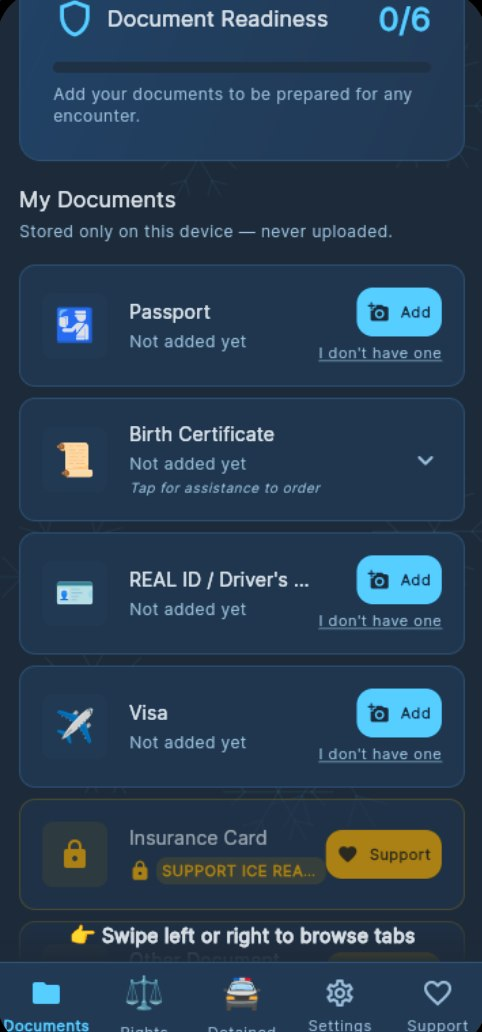
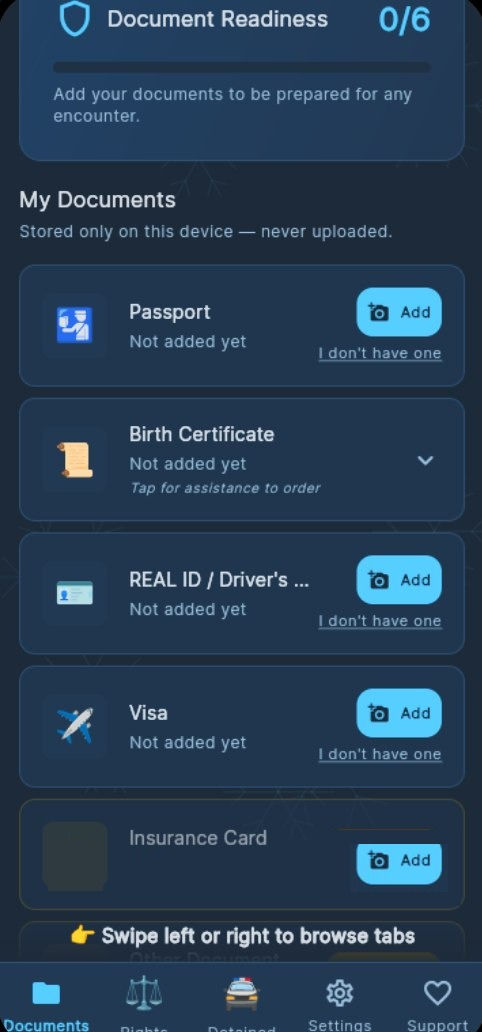
Add 4 sticker artworks, Documents preview tab, patched documents screenshot
- Sticker pack: replace all 4 'pending art' placeholders (Cuba gator,
  Spike vs. melting Blockhead, Mex Kid, Peru Kid) with real art
- Phone preview: add Documents tab; screenshot patched to remove old
  paywall UI (Insurance row now shows standard Add button, matching the
  shipped all-free v1.0.0 app). Settings/Support still pending retakes.
- Cache-bust appscreens probe v3 -> v4

Changed region(s): [[0.249, 0.8062, 0.9336, 0.8682], [0.1245, 0.8062, 0.1867, 0.8682]]

diff --git a/index.html b/index.html
@@ -262,8 +262,8 @@ footer{border-top-color:var(--border);}
 <div class="facts-bar"><div class="ticker-track"><div class="ticker-group"><span class="fact-item">46 people died in ICE custody</span><span class="fact-item">Two-thirds held without charges</span><span class="fact-item">Girls 13-17 denied medical care</span><span class="fact-item">One death every 6 days</span><span class="fact-item">4,700 student visas terminated overnight</span></div><div class="ticker-group" aria-hidden="true"><span class="fact-item">46 people died in ICE custody</span><span class="fact-item">Two-thirds held without charges</span><span class="fact-item">Girls 13-17 denied medical care</span><span class="fact-item">One death every 6 days</span><span class="fact-item">4,700 student visas terminated overnight</span></div></div></div>
 <a href="#merch" class="merch-ribbon"><span class="merch-ribbon-tag">New</span><span>ICE Ready merch — tees from $22. Every purchase keeps the app free.</span><span class="merch-ribbon-cta">See the lineup →</span></a>
 <section class="section" id="features"><div class="section-label">Core Features</div><div class="section-title">Built For The Worst Case</div><div class="features-grid"><div class="feature"><div class="feature-num">01</div><div class="feature-icon">🔒</div><h3>Lock Screen Access</h3><p>Documents accessible without unlocking your phone. When hands are occupied or shaking — seconds matter.</p><span class="feature-tag">Coming in a free update</span></div><div class="feature"><div class="feature-num">02</div><div class="feature-icon">🎙</div><h3>Voice Trigger</h3><p>Hands-free activation when motor skills fail under stress. Trauma-informed design that competitors haven't considered.</p><span class="feature-tag">Coming in a free update</span></div><div class="feature"><div class="feature-num">03</div><div class="feature-icon">📋</div><h3>Rights Cards</h3><p>Know your rights in your state, in your language. Refuse search scripts, lawyer contact scripts — instantly available.</p><span class="feature-tag">All 50 states</span></div><div class="feature"><div class="feature-num">04</div><div class="feature-icon">🎥</div><h3>Right to Record</h3><p>Know your right to record law enforcement in your state — with scripts for what to say while filming.</p><span class="feature-tag">Anyone near law enforcement</span></div><div class="feature"><div class="feature-num">05</div><div class="feature-icon">🛡</div><h3>Decoy Mode</h3><p>Hides the app behind an innocent-looking screen. Documents stay protected even if your phone is taken.</p><span class="feature-tag">Free at launch — early adopters keep it</span></div><div class="feature"><div class="feature-num">06</div><div class="feature-icon">💳</div><h3>Document Vault</h3><p>Encrypted storage for ID, passport, visa, insurance cards. Accessible offline. Never backed up to third-party servers.</p><span class="feature-tag">Encrypted on your device</span></div></div></section>
-<section class="download-section" id="download"><div class="download-inner"><div class="download-copy"><div class="section-label">Download</div><h2>FREE. ALWAYS.</h2><p>ICE Ready is free for everyone. Every safety feature is free. No ads. No account. No paywall between a family and their rights.</p><div class="store-buttons"><!-- APPLE LAUNCH DAY: when the App Store approves, make the same swap on the App Store link below (remove coming-soon/aria-disabled/tabindex, set the App Store URL) --><a href="https://play.google.com/store/apps/details?id=com.icyberaillc.iceready" class="store-btn" rel="noopener"><img src="badges/google-play-badge.png" alt="Get it on Google Play" style="height:64px;width:auto;display:block;margin:-6px 0;"></a><a href="#" class="store-btn coming-soon" aria-disabled="true" tabindex="-1"><img src="badges/app-store-badge.svg" alt="Download on the App Store — coming soon" style="height:44px;width:auto;display:block;"></a><a href="https://app.primio.dev/ice-ready-456a" class="store-btn" rel="noopener"><div class="store-btn-icon">🌐</div><div class="store-btn-text"><small>Web demo — preview only</small><strong>Try in Browser</strong></div></a></div></div><div class="phone-wrap"><div class="phone-frame"><div class="phone-screen"><div class="phone-view"><div class="phone-cover"><div class="phone-app-header"><div class="phone-logo-dot">🧊</div><div class="phone-app-name">ICE READY</div></div><div class="phone-card"><div class="phone-card-label">Passport</div><div class="phone-card-title">US Passport</div></div><div class="phone-card"><div class="phone-card-label">Your Rights · California</div><div class="phone-card-title">You have the right to remain silent</div></div><div class="phone-card"><div class="phone-card-label">Emergency Contact</div><div class="phone-card-title">Attorney on file</div></div><div class="phone-record-btn">TAP TO RECORD</div></div><img class="phone-shot" alt="ICE Ready app screenshot"></div><div class="phone-tabbar"><!-- INTERIM: Documents/Settings/Support tabs removed until screenshots are retaken from the shipped v1.0.0 build (old shots show removed paywall/tip prices) --><button class="ptab" data-tab="rights" type="button"><span>⚖</span>Rights</button><button class="ptab" data-tab="detained" type="button"><span>🚓</span>Detained</button></div></div></div><p class="phone-hint">▲ Tap a tab to preview the real app</p></div></div></section>
-<section class="merch-section" id="merch"><div class="merch-inner"><div class="section-label">Store · Drop 001</div><div class="section-title">Wear The Movement</div><p class="merch-sub"><strong>Every purchase keeps the app free.</strong> No ads, no data selling, no paywall between a family and their rights — merch is how this stays true. Join the waitlist and you'll get first access when the drop goes live.</p><div class="merch-grid"><div class="merch-card"><div class="merch-img"><img src="balon-full-flags-640.webp" alt="El Balón de las Américas — Full Flags ball: 19 flags edge to edge, gold trophy panel" loading="lazy" decoding="async" style="width:100%;height:100%;object-fit:cover;display:block;"><span class="merch-flag">19 Naciones</span></div><div class="merch-info"><div class="merch-title-row"><h4>El Balón de las Américas — Full Flags</h4><span class="merch-price">Coming Soon</span></div><p>Every hexagon a nation. The flags of 19 Spanish-speaking countries of the Américas, printed edge to edge, with a gold trophy panel for the host. Size 5, match-quality, made to play.</p><a href="mailto:support@iceready.app?subject=Waitlist: Full Flags Ball" class="merch-notify">Join the waitlist</a></div></div><div class="merch-card"><div class="merch-img"><img src="balon-little-flags-640.webp" alt="El Balón de las Américas — Little Flags ball: small flags on white, nickel trophy" loading="lazy" decoding="async" style="width:100%;height:100%;object-fit:cover;display:block;"><span class="merch-flag">Las Américas Unidas</span></div><div class="merch-info"><div class="merch-title-row"><h4>El Balón de las Américas — Little Flags</h4><span class="merch-price">Coming Soon</span></div><p>The collector&rsquo;s cut. 19 small flags on clean white panels — Puerto Rico in its original celeste — with a brushed-nickel trophy carrying the Américas on its face. <em>Las Américas Unidas.</em></p><a href="mailto:support@iceready.app?subject=Waitlist: Little Flags Ball" class="merch-notify">Join the waitlist</a></div></div><div class="merch-card"><div class="merch-img"><svg viewBox="0 0 220 200" id="logo-tee-svg" role="img" aria-label="ICE Ready logo tee mockup"><defs><linearGradient id="t1b" x1="0" y1="0" x2="0" y2="1"><stop id="t1b-top" offset="0" stop-color="#ffffff"/><stop id="t1b-bot" offset="1" stop-color="#dff0fa"/></linearGradient></defs><ellipse cx="110" cy="188" rx="62" ry="7" fill="#000" opacity="0.45"/><path id="t1b-body" d="M78,26 L96,18 Q110,32 124,18 L142,26 L174,46 L160,76 L144,65 L144,174 Q110,181 76,174 L76,65 L60,76 L46,46 Z" fill="url(#t1b)" stroke="#cdd6df" stroke-width="1.5"/><path id="t1b-collar" d="M96,18 Q110,34 124,18 Q110,44 96,18" fill="#d3dbe3"/><path d="M144,65 L144,174 Q127,178 110,178 L110,72 Z" fill="#000" opacity="0.07"/><polygon points="62,42 88,30 72,168 52,158" fill="#000" opacity="0.03"/><image id="logo-tee-img" href="shield-logo-128.webp" x="119" y="58" width="21" height="21"/></svg><span class="merch-flag">Front + Back</span></div><div class="merch-info"><div class="tee-swatches"><button class="tee-swatch swatch-active" data-top="#ffffff" data-bot="#dff0fa" data-collar="#d3dbe3" data-stroke="#cdd6df" data-logo="iceblue_logo-128.webp" style="background:#fff;" title="White"></button><button class="tee-swatch" data-top="#d0dce8" data-bot="#b8c8d8" data-collar="#b0c0d0" data-stroke="#9aaabb" data-logo="iceblue_logo-128.webp" style="background:#c0ceda;" title="Light Grey"></button><button class="tee-swatch" data-top="#4a5568" data-bot="#2d3748" data-collar="#3d4a5c" data-stroke="#5a6a7a" data-logo="ice_ready_fixed-128.webp" style="background:#3d4a5c;" title="Dark Grey"></button><button class="tee-swatch" data-top="#1a1a22" data-bot="#0a0a10" data-collar="#252530" data-stroke="#3a3a48" data-logo="ice_ready_fixed-128.webp" style="background:#111;" title="Black"></button></div><div class="merch-title-row"><h4>ICE Ready Logo Tee</h4><span class="merch-price">$22</span></div><p>White heavyweight cotton. Logo on the left chest. ICE READY APP in icicle blue across the back with a scannable QR code beneath — close enough to read it, close enough to scan it.</p><a href="mailto:support@iceready.app?subject=Waitlist: Logo Tee" class="merch-notify">Join the waitlist</a></div></div><div class="merch-card"><div class="merch-img" style="aspect-ratio:16/9;"><img src="barney_batman_tee-700.webp" alt="I'm Batman tee" loading="lazy" decoding="async" style="width:100%;height:100%;object-fit:cover;display:block;"><img src="ir-qr-code-480.png" alt="Scan QR" loading="lazy" decoding="async" style="position:absolute;bottom:4px;left:4px;width:18px;height:18px;background:rgba(100,100,100,0.45);border-radius:2px;padding:1px;z-index:1;"><span class="merch-flag">QR bottom-left</span></div><div class="merch-info"><div class="merch-title-row"><h4>&ldquo;I'm Batman&rdquo; Tee</h4><span class="merch-price">$24</span></div><p>Graphic on the back with ICE Ready logo on the front left chest, OR graphic on the front with ICE READY APP in icicle blue on the back. Scannable QR in the lower-left corner of the print.</p><a href="mailto:support@iceready.app?subject=Waitlist: Batman Tee" class="merch-notify">Join the waitlist</a></div></div><div class="merch-card"><div class="merch-img"><svg viewBox="0 0 220 200" role="img" aria-label="Taco Break mug mockup"><defs><linearGradient id="mgb" x1="0" y1="0" x2="1" y2="0"><stop offset="0" stop-color="#fafcfe"/><stop offset="0.7" stop-color="#e3eaef"/><stop offset="1" stop-color="#c3cdd6"/></linearGradient><linearGradient id="mshade" x1="0" y1="0" x2="1" y2="0"><stop offset="0" stop-color="#fff" stop-opacity="0.2"/><stop offset="0.35" stop-color="#fff" stop-opacity="0"/><stop offset="0.85" stop-color="#000" stop-opacity="0.16"/><stop offset="1" stop-color="#000" stop-opacity="0.3"/></linearGradient><clipPath id="mclip"><path d="M62,60 Q62,52 72,52 L138,52 Q148,52 148,60 L148,160 Q148,172 134,172 L76,172 Q62,172 62,160 Z"/></clipPath></defs><ellipse cx="108" cy="182" rx="58" ry="7" fill="#000" opacity="0.45"/><path d="M148,80 Q188,84 184,112 Q180,140 148,142" fill="none" stroke="#b9c4cd" stroke-width="13"/><path d="M148,80 Q188,84 184,112 Q180,140 148,142" fill="none" stroke="#eef2f5" stroke-width="9"/><path d="M62,60 Q62,52 72,52 L138,52 Q148,52 148,60 L148,160 Q148,172 134,172 L76,172 Q62,172 62,160 Z" fill="url(#mgb)"/><ellipse cx="105" cy="53" rx="43" ry="7" fill="#dfe6ec"/><ellipse cx="105" cy="53" rx="36" ry="5" fill="#aeb9c2"/><image href="taco_chihuahua.jpg" x="62" y="58" width="86" height="114" preserveAspectRatio="xMidYMid slice" clip-path="url(#mclip)"/><path d="M62,60 Q62,52 72,52 L138,52 Q148,52 148,60 L148,160 Q148,172 134,172 L76,172 Q62,172 62,160 Z" fill="url(#mshade)"/></svg></div><div class="merch-info"><div class="merch-title-row"><h4>Taco Break Mug</h4><span class="merch-price">$14</span></div><p>The schoolyard chihuahua &ldquo;Roo Roo,&rdquo; mid-taco, leaning on the wall where &ldquo;give me your tired, your poor&rdquo; is sprayed in graffiti script. ICE READY in icicle blue on the flip side.</p><a href="mailto:support@iceready.app?subject=Waitlist: Taco Break Mug" class="merch-notify">Join the waitlist</a></div></div><div class="merch-card"><div class="merch-img"><div class="sticker-pager" id="sticker-pager"><div class="sticker-page sticker-page-active" data-page="0"><div class="sticker-item"><img src="shield-sticker-480.webp" alt="ICE Ready shield sticker" loading="lazy" decoding="async"></div><div class="sticker-item"><img src="barney_batman_v2-700.webp" alt="I'm Batman sticker" loading="lazy" decoding="async"></div><div class="sticker-item"><div class="sticker-item-placeholder">Alligator<br>(Cuba)<br>— pending art —</div></div><div class="sticker-item"><div class="sticker-item-placeholder">Spike vs.<br>melting Blockhead<br>— pending art —</div></div></div><div class="sticker-page" data-page="1"><div class="sticker-item"><img src="ice-cube-black-180.webp" alt="Melting ice cube sticker — Statue of Liberty poem" loading="lazy" decoding="async"></div><div class="sticker-item"><img src="ice-cube-clear-160.webp" alt="Melting ice cube sticker — Know Your Rights" loading="lazy" decoding="async"></div><div class="sticker-item"><div class="sticker-item-placeholder">Mex Kid<br>— pending art —</div></div><div class="sticker-item"><div class="sticker-item-placeholder">Peru Kid<br>— pending art —</div></div></div><div class="sticker-pager-nav"><span class="sticker-pager-dots" id="sticker-pager-dots">1/2</span><button type="button" class="sticker-pager-btn" id="sticker-pager-next" aria-label="Next sticker set">&gt;</button></div></div></div><div class="merch-info"><div class="merch-title-row"><h4>Sticker Pack</h4><span class="merch-price">$5</span></div><p>4-pack die-cut vinyl, two sets to choose from: ICE Ready shield, &ldquo;I&rsquo;m Batman,&rdquo; the Cuba gator, and Spike vs. the melting Blockhead &mdash; or flip to two melting ice cubes (Statue of Liberty poem &amp; Know Your Rights) plus Mex Kid and Peru Kid. Weatherproof.</p><a href="mailto:support@iceready.app?subject=Waitlist: Sticker Pack" class="merch-notify">Join the waitlist</a></div></div><div class="merch-card"><div class="merch-img"><img id="cap-photo" src="ice_ready_cap_lightblue.webp" alt="ICE Ready cap — front-facing trucker cap with shield logo on the front panel" loading="lazy" decoding="async" style="width:100%;height:100%;object-fit:cover;display:block;"></div><div class="merch-info"><div class="cap-swatches"><button class="cap-swatch swatch-active" data-photo="ice_ready_cap_lightblue.webp" style="background:#7ec8f0;" title="Light Blue / Nickel"></button><button class="cap-swatch" data-photo="ice_ready_cap_navy.webp" style="background:#1c2f4a;" title="Navy / Gunmetal"></button></div><div class="merch-title-row"><h4>ICE Ready Cap</h4><span class="merch-price">$22</span></div><p>White structured 6-panel. ICE READY in icicle blue across the front, fine print beneath: Know Your Rights &middot; iceready.app. Adjustable strap. Available in light blue (nickel shield) or navy (gunmetal shield).</p><a href="mailto:support@iceready.app?subject=Waitlist: Cap" class="merch-notify">Join the waitlist</a></div></div><div class="merch-card"><div class="merch-img"><svg viewBox="0 0 220 200" role="img" aria-label="Canvas tote mockup"><defs><linearGradient id="totb" x1="0" y1="0" x2="1" y2="1"><stop offset="0" stop-color="#e2d8bd"/><stop offset="1" stop-color="#c2b48e"/></linearGradient><linearGradient id="tottx" x1="0" y1="0" x2="0" y2="1"><stop offset="0" stop-color="#dff6ff"/><stop offset="1" stop-color="#00c8ff"/></linearGradient></defs><ellipse cx="110" cy="188" rx="58" ry="7" fill="#000" opacity="0.45"/><path d="M84,66 Q84,28 110,28 Q136,28 136,66" fill="none" stroke="#9c8c64" stroke-width="7"/><path d="M84,66 Q84,30 110,30 Q136,30 136,66" fill="none" stroke="#b8a87e" stroke-width="4"/><path d="M60,64 L160,64 L154,180 Q110,187 66,180 Z" fill="url(#totb)" stroke="#a4946a" stroke-width="1"/><path d="M75,70 L72,176 M145,70 L148,176" stroke="#000" opacity="0.08" stroke-width="2" fill="none"/><text x="110" y="104" text-anchor="middle" font-family="'Bebas Neue',sans-serif" font-size="21" letter-spacing="2" fill="#16202e">KNOW</text><text x="110" y="126" text-anchor="middle" font-family="'Bebas Neue',sans-serif" font-size="21" letter-spacing="2" fill="#16202e">YOUR</text><text x="110" y="148" text-anchor="middle" font-family="'Bebas Neue',sans-serif" font-size="21" letter-spacing="2" fill="#16202e">RIGHTS</text><text x="110" y="164" text-anchor="middle" font-family="'Bebas Neue',sans-serif" font-size="8" letter-spacing="1.5" fill="url(#tottx)">ICE READY APP</text></svg></div><div class="merch-info"><div class="merch-title-row"><h4>Canvas Tote</h4><span class="merch-price">$15</span></div><p>Heavy canvas tote. <em>Know Your Rights</em> front, <em>14th Amendment</em> on the back — birthright citizenship, equal protection, due process. Carries groceries and a cause.</p><a href="mailto:support@iceready.app?subject=Waitlist: Tote" class="merch-notify">Join the waitlist</a></div></div><div class="merch-card"><div class="merch-img"><svg viewBox="0 0 220 200" role="img" aria-label="Blockhead Ice Cube tee back mockup"><defs><linearGradient id="blockshirt" x1="0" y1="0" x2="0" y2="1"><stop offset="0" stop-color="#f8f4ee"/><stop offset="1" stop-color="#e8e0d4"/></linearGradient></defs><ellipse cx="110" cy="188" rx="62" ry="7" fill="#000" opacity="0.45"/><path d="M78,26 L96,18 Q110,32 124,18 L142,26 L174,46 L160,76 L144,65 L144,174 Q110,181 76,174 L76,65 L60,76 L46,46 Z" fill="url(#blockshirt)" stroke="#ccc2b4" stroke-width="1.5"/><path d="M96,18 Q110,34 124,18 Q110,44 96,18" fill="#d8d0c4"/><path d="M144,65 L144,174 Q127,178 110,178 L110,72 Z" fill="#000" opacity="0.05"/><polygon points="62,42 88,30 72,168 52,158" fill="#000" opacity="0.03"/><image href="blockhead-ice.png" x="80" y="50" width="60" height="65" preserveAspectRatio="xMidYMid meet"/><text x="110" y="125" text-anchor="middle" font-family="'Bebas Neue',sans-serif" font-size="4.5" fill="#0057a8" letter-spacing="0.6">Know your rights</text><text x="110" y="135" text-anchor="middle" font-family="'DM Mono',monospace" font-size="3.2" fill="#0057a8">Be ICE Ready</text><text x="110" y="143" text-anchor="middle" font-family="'DM Mono',monospace" font-size="3" fill="#0057a8">@icereadyapp</text></svg><span class="merch-flag">Chest Logo</span></div><div class="merch-info"><div class="merch-title-row"><h4>ICE Blockhead Tee</h4><span class="merch-price">$24</span></div><p>Front: Clean shield logo on left chest. Back: Life-size LEGO blockhead with ice cube head, <em>Know your rights. Be ICE Ready @icereadyapp</em> below. Visual statement piece for the merch drop.</p><a href="mailto:support@iceready.app?subject=Waitlist: Blockhead Tee" class="merch-notify">Join the waitlist</a></div></div></div><div class="merch-foot"><span>Full store launching at shop.iceready.app</span><span>Printed on demand in the USA · Profits fund the free app</span></div></div></section>
+<section class="download-section" id="download"><div class="download-inner"><div class="download-copy"><div class="section-label">Download</div><h2>FREE. ALWAYS.</h2><p>ICE Ready is free for everyone. Every safety feature is free. No ads. No account. No paywall between a family and their rights.</p><div class="store-buttons"><!-- APPLE LAUNCH DAY: when the App Store approves, make the same swap on the App Store link below (remove coming-soon/aria-disabled/tabindex, set the App Store URL) --><a href="https://play.google.com/store/apps/details?id=com.icyberaillc.iceready" class="store-btn" rel="noopener"><img src="badges/google-play-badge.png" alt="Get it on Google Play" style="height:64px;width:auto;display:block;margin:-6px 0;"></a><a href="#" class="store-btn coming-soon" aria-disabled="true" tabindex="-1"><img src="badges/app-store-badge.svg" alt="Download on the App Store — coming soon" style="height:44px;width:auto;display:block;"></a><a href="https://app.primio.dev/ice-ready-456a" class="store-btn" rel="noopener"><div class="store-btn-icon">🌐</div><div class="store-btn-text"><small>Web demo — preview only</small><strong>Try in Browser</strong></div></a></div></div><div class="phone-wrap"><div class="phone-frame"><div class="phone-screen"><div class="phone-view"><div class="phone-cover"><div class="phone-app-header"><div class="phone-logo-dot">🧊</div><div class="phone-app-name">ICE READY</div></div><div class="phone-card"><div class="phone-card-label">Passport</div><div class="phone-card-title">US Passport</div></div><div class="phone-card"><div class="phone-card-label">Your Rights · California</div><div class="phone-card-title">You have the right to remain silent</div></div><div class="phone-card"><div class="phone-card-label">Emergency Contact</div><div class="phone-card-title">Attorney on file</div></div><div class="phone-record-btn">TAP TO RECORD</div></div><img class="phone-shot" alt="ICE Ready app screenshot"></div><div class="phone-tabbar"><!-- INTERIM: Settings/Support tabs removed until screenshots are retaken from the shipped v1.0.0 build (old shots show removed paywall/tip prices) --><button class="ptab" data-tab="documents" type="button"><span>📁</span>Documents</button><button class="ptab" data-tab="rights" type="button"><span>⚖</span>Rights</button><button class="ptab" data-tab="detained" type="button"><span>🚓</span>Detained</button></div></div></div><p class="phone-hint">▲ Tap a tab to preview the real app</p></div></div></section>
+<section class="merch-section" id="merch"><div class="merch-inner"><div class="section-label">Store · Drop 001</div><div class="section-title">Wear The Movement</div><p class="merch-sub"><strong>Every purchase keeps the app free.</strong> No ads, no data selling, no paywall between a family and their rights — merch is how this stays true. Join the waitlist and you'll get first access when the drop goes live.</p><div class="merch-grid"><div class="merch-card"><div class="merch-img"><img src="balon-full-flags-640.webp" alt="El Balón de las Américas — Full Flags ball: 19 flags edge to edge, gold trophy panel" loading="lazy" decoding="async" style="width:100%;height:100%;object-fit:cover;display:block;"><span class="merch-flag">19 Naciones</span></div><div class="merch-info"><div class="merch-title-row"><h4>El Balón de las Américas — Full Flags</h4><span class="merch-price">Coming Soon</span></div><p>Every hexagon a nation. The flags of 19 Spanish-speaking countries of the Américas, printed edge to edge, with a gold trophy panel for the host. Size 5, match-quality, made to play.</p><a href="mailto:support@iceready.app?subject=Waitlist: Full Flags Ball" class="merch-notify">Join the waitlist</a></div></div><div class="merch-card"><div class="merch-img"><img src="balon-little-flags-640.webp" alt="El Balón de las Américas — Little Flags ball: small flags on white, nickel trophy" loading="lazy" decoding="async" style="width:100%;height:100%;object-fit:cover;display:block;"><span class="merch-flag">Las Américas Unidas</span></div><div class="merch-info"><div class="merch-title-row"><h4>El Balón de las Américas — Little Flags</h4><span class="merch-price">Coming Soon</span></div><p>The collector&rsquo;s cut. 19 small flags on clean white panels — Puerto Rico in its original celeste — with a brushed-nickel trophy carrying the Américas on its face. <em>Las Américas Unidas.</em></p><a href="mailto:support@iceready.app?subject=Waitlist: Little Flags Ball" class="merch-notify">Join the waitlist</a></div></div><div class="merch-card"><div class="merch-img"><svg viewBox="0 0 220 200" id="logo-tee-svg" role="img" aria-label="ICE Ready logo tee mockup"><defs><linearGradient id="t1b" x1="0" y1="0" x2="0" y2="1"><stop id="t1b-top" offset="0" stop-color="#ffffff"/><stop id="t1b-bot" offset="1" stop-color="#dff0fa"/></linearGradient></defs><ellipse cx="110" cy="188" rx="62" ry="7" fill="#000" opacity="0.45"/><path id="t1b-body" d="M78,26 L96,18 Q110,32 124,18 L142,26 L174,46 L160,76 L144,65 L144,174 Q110,181 76,174 L76,65 L60,76 L46,46 Z" fill="url(#t1b)" stroke="#cdd6df" stroke-width="1.5"/><path id="t1b-collar" d="M96,18 Q110,34 124,18 Q110,44 96,18" fill="#d3dbe3"/><path d="M144,65 L144,174 Q127,178 110,178 L110,72 Z" fill="#000" opacity="0.07"/><polygon points="62,42 88,30 72,168 52,158" fill="#000" opacity="0.03"/><image id="logo-tee-img" href="shield-logo-128.webp" x="119" y="58" width="21" height="21"/></svg><span class="merch-flag">Front + Back</span></div><div class="merch-info"><div class="tee-swatches"><button class="tee-swatch swatch-active" data-top="#ffffff" data-bot="#dff0fa" data-collar="#d3dbe3" data-stroke="#cdd6df" data-logo="iceblue_logo-128.webp" style="background:#fff;" title="White"></button><button class="tee-swatch" data-top="#d0dce8" data-bot="#b8c8d8" data-collar="#b0c0d0" data-stroke="#9aaabb" data-logo="iceblue_logo-128.webp" style="background:#c0ceda;" title="Light Grey"></button><button class="tee-swatch" data-top="#4a5568" data-bot="#2d3748" data-collar="#3d4a5c" data-stroke="#5a6a7a" data-logo="ice_ready_fixed-128.webp" style="background:#3d4a5c;" title="Dark Grey"></button><button class="tee-swatch" data-top="#1a1a22" data-bot="#0a0a10" data-collar="#252530" data-stroke="#3a3a48" data-logo="ice_ready_fixed-128.webp" style="background:#111;" title="Black"></button></div><div class="merch-title-row"><h4>ICE Ready Logo Tee</h4><span class="merch-price">$22</span></div><p>White heavyweight cotton. Logo on the left chest. ICE READY APP in icicle blue across the back with a scannable QR code beneath — close enough to read it, close enough to scan it.</p><a href="mailto:support@iceready.app?subject=Waitlist: Logo Tee" class="merch-notify">Join the waitlist</a></div></div><div class="merch-card"><div class="merch-img" style="aspect-ratio:16/9;"><img src="barney_batman_tee-700.webp" alt="I'm Batman tee" loading="lazy" decoding="async" style="width:100%;height:100%;object-fit:cover;display:block;"><img src="ir-qr-code-480.png" alt="Scan QR" loading="lazy" decoding="async" style="position:absolute;bottom:4px;left:4px;width:18px;height:18px;background:rgba(100,100,100,0.45);border-radius:2px;padding:1px;z-index:1;"><span class="merch-flag">QR bottom-left</span></div><div class="merch-info"><div class="merch-title-row"><h4>&ldquo;I'm Batman&rdquo; Tee</h4><span class="merch-price">$24</span></div><p>Graphic on the back with ICE Ready logo on the front left chest, OR graphic on the front with ICE READY APP in icicle blue on the back. Scannable QR in the lower-left corner of the print.</p><a href="mailto:support@iceready.app?subject=Waitlist: Batman Tee" class="merch-notify">Join the waitlist</a></div></div><div class="merch-card"><div class="merch-img"><svg viewBox="0 0 220 200" role="img" aria-label="Taco Break mug mockup"><defs><linearGradient id="mgb" x1="0" y1="0" x2="1" y2="0"><stop offset="0" stop-color="#fafcfe"/><stop offset="0.7" stop-color="#e3eaef"/><stop offset="1" stop-color="#c3cdd6"/></linearGradient><linearGradient id="mshade" x1="0" y1="0" x2="1" y2="0"><stop offset="0" stop-color="#fff" stop-opacity="0.2"/><stop offset="0.35" stop-color="#fff" stop-opacity="0"/><stop offset="0.85" stop-color="#000" stop-opacity="0.16"/><stop offset="1" stop-color="#000" stop-opacity="0.3"/></linearGradient><clipPath id="mclip"><path d="M62,60 Q62,52 72,52 L138,52 Q148,52 148,60 L148,160 Q148,172 134,172 L76,172 Q62,172 62,160 Z"/></clipPath></defs><ellipse cx="108" cy="182" rx="58" ry="7" fill="#000" opacity="0.45"/><path d="M148,80 Q188,84 184,112 Q180,140 148,142" fill="none" stroke="#b9c4cd" stroke-width="13"/><path d="M148,80 Q188,84 184,112 Q180,140 148,142" fill="none" stroke="#eef2f5" stroke-width="9"/><path d="M62,60 Q62,52 72,52 L138,52 Q148,52 148,60 L148,160 Q148,172 134,172 L76,172 Q62,172 62,160 Z" fill="url(#mgb)"/><ellipse cx="105" cy="53" rx="43" ry="7" fill="#dfe6ec"/><ellipse cx="105" cy="53" rx="36" ry="5" fill="#aeb9c2"/><image href="taco_chihuahua.jpg" x="62" y="58" width="86" height="114" preserveAspectRatio="xMidYMid slice" clip-path="url(#mclip)"/><path d="M62,60 Q62,52 72,52 L138,52 Q148,52 148,60 L148,160 Q148,172 134,172 L76,172 Q62,172 62,160 Z" fill="url(#mshade)"/></svg></div><div class="merch-info"><div class="merch-title-row"><h4>Taco Break Mug</h4><span class="merch-price">$14</span></div><p>The schoolyard chihuahua &ldquo;Roo Roo,&rdquo; mid-taco, leaning on the wall where &ldquo;give me your tired, your poor&rdquo; is sprayed in graffiti script. ICE READY in icicle blue on the flip side.</p><a href="mailto:support@iceready.app?subject=Waitlist: Taco Break Mug" class="merch-notify">Join the waitlist</a></div></div><div class="merch-card"><div class="merch-img"><div class="sticker-pager" id="sticker-pager"><div class="sticker-page sticker-page-active" data-page="0"><div class="sticker-item"><img src="shield-sticker-480.webp" alt="ICE Ready shield sticker" loading="lazy" decoding="async"></div><div class="sticker-item"><img src="barney_batman_v2-700.webp" alt="I'm Batman sticker" loading="lazy" decoding="async"></div><div class="sticker-item"><img src="gator-cuba-480.webp" alt="Cuba alligator sticker - LEGO-style gator in Cuba cap and tee" loading="lazy" decoding="async"></div><div class="sticker-item"><img src="spike-blockhead-420.webp" alt="Spike vs. the melting Blockhead sticker" loading="lazy" decoding="async"></div></div><div class="sticker-page" data-page="1"><div class="sticker-item"><img src="ice-cube-black-180.webp" alt="Melting ice cube sticker — Statue of Liberty poem" loading="lazy" decoding="async"></div><div class="sticker-item"><img src="ice-cube-clear-160.webp" alt="Melting ice cube sticker — Know Your Rights" loading="lazy" decoding="async"></div><div class="sticker-item"><img src="mex-kid-700.webp" alt="Mex Kid sticker - chihuahua with Mexico flag cap" loading="lazy" decoding="async"></div><div class="sticker-item"><img src="peru-kid-700.webp" alt="Peru Kid sticker - chihuahua with Peru flag cap" loading="lazy" decoding="async"></div></div><div class="sticker-pager-nav"><span class="sticker-pager-dots" id="sticker-pager-dots">1/2</span><button type="button" class="sticker-pager-btn" id="sticker-pager-next" aria-label="Next sticker set">&gt;</button></div></div></div><div class="merch-info"><div class="merch-title-row"><h4>Sticker Pack</h4><span class="merch-price">$5</span></div><p>4-pack die-cut vinyl, two sets to choose from: ICE Ready shield, &ldquo;I&rsquo;m Batman,&rdquo; the Cuba gator, and Spike vs. the melting Blockhead &mdash; or flip to two melting ice cubes (Statue of Liberty poem &amp; Know Your Rights) plus Mex Kid and Peru Kid. Weatherproof.</p><a href="mailto:support@iceready.app?subject=Waitlist: Sticker Pack" class="merch-notify">Join the waitlist</a></div></div><div class="merch-card"><div class="merch-img"><img id="cap-photo" src="ice_ready_cap_lightblue.webp" alt="ICE Ready cap — front-facing trucker cap with shield logo on the front panel" loading="lazy" decoding="async" style="width:100%;height:100%;object-fit:cover;display:block;"></div><div class="merch-info"><div class="cap-swatches"><button class="cap-swatch swatch-active" data-photo="ice_ready_cap_lightblue.webp" style="background:#7ec8f0;" title="Light Blue / Nickel"></button><button class="cap-swatch" data-photo="ice_ready_cap_navy.webp" style="background:#1c2f4a;" title="Navy / Gunmetal"></button></div><div class="merch-title-row"><h4>ICE Ready Cap</h4><span class="merch-price">$22</span></div><p>White structured 6-panel. ICE READY in icicle blue across the front, fine print beneath: Know Your Rights &middot; iceready.app. Adjustable strap. Available in light blue (nickel shield) or navy (gunmetal shield).</p><a href="mailto:support@iceready.app?subject=Waitlist: Cap" class="merch-notify">Join the waitlist</a></div></div><div class="merch-card"><div class="merch-img"><svg viewBox="0 0 220 200" role="img" aria-label="Canvas tote mockup"><defs><linearGradient id="totb" x1="0" y1="0" x2="1" y2="1"><stop offset="0" stop-color="#e2d8bd"/><stop offset="1" stop-color="#c2b48e"/></linearGradient><linearGradient id="tottx" x1="0" y1="0" x2="0" y2="1"><stop offset="0" stop-color="#dff6ff"/><stop offset="1" stop-color="#00c8ff"/></linearGradient></defs><ellipse cx="110" cy="188" rx="58" ry="7" fill="#000" opacity="0.45"/><path d="M84,66 Q84,28 110,28 Q136,28 136,66" fill="none" stroke="#9c8c64" stroke-width="7"/><path d="M84,66 Q84,30 110,30 Q136,30 136,66" fill="none" stroke="#b8a87e" stroke-width="4"/><path d="M60,64 L160,64 L154,180 Q110,187 66,180 Z" fill="url(#totb)" stroke="#a4946a" stroke-width="1"/><path d="M75,70 L72,176 M145,70 L148,176" stroke="#000" opacity="0.08" stroke-width="2" fill="none"/><text x="110" y="104" text-anchor="middle" font-family="'Bebas Neue',sans-serif" font-size="21" letter-spacing="2" fill="#16202e">KNOW</text><text x="110" y="126" text-anchor="middle" font-family="'Bebas Neue',sans-serif" font-size="21" letter-spacing="2" fill="#16202e">YOUR</text><text x="110" y="148" text-anchor="middle" font-family="'Bebas Neue',sans-serif" font-size="21" letter-spacing="2" fill="#16202e">RIGHTS</text><text x="110" y="164" text-anchor="middle" font-family="'Bebas Neue',sans-serif" font-size="8" letter-spacing="1.5" fill="url(#tottx)">ICE READY APP</text></svg></div><div class="merch-info"><div class="merch-title-row"><h4>Canvas Tote</h4><span class="merch-price">$15</span></div><p>Heavy canvas tote. <em>Know Your Rights</em> front, <em>14th Amendment</em> on the back — birthright citizenship, equal protection, due process. Carries groceries and a cause.</p><a href="mailto:support@iceready.app?subject=Waitlist: Tote" class="merch-notify">Join the waitlist</a></div></div><div class="merch-card"><div class="merch-img"><svg viewBox="0 0 220 200" role="img" aria-label="Blockhead Ice Cube tee back mockup"><defs><linearGradient id="blockshirt" x1="0" y1="0" x2="0" y2="1"><stop offset="0" stop-color="#f8f4ee"/><stop offset="1" stop-color="#e8e0d4"/></linearGradient></defs><ellipse cx="110" cy="188" rx="62" ry="7" fill="#000" opacity="0.45"/><path d="M78,26 L96,18 Q110,32 124,18 L142,26 L174,46 L160,76 L144,65 L144,174 Q110,181 76,174 L76,65 L60,76 L46,46 Z" fill="url(#blockshirt)" stroke="#ccc2b4" stroke-width="1.5"/><path d="M96,18 Q110,34 124,18 Q110,44 96,18" fill="#d8d0c4"/><path d="M144,65 L144,174 Q127,178 110,178 L110,72 Z" fill="#000" opacity="0.05"/><polygon points="62,42 88,30 72,168 52,158" fill="#000" opacity="0.03"/><image href="blockhead-ice.png" x="80" y="50" width="60" height="65" preserveAspectRatio="xMidYMid meet"/><text x="110" y="125" text-anchor="middle" font-family="'Bebas Neue',sans-serif" font-size="4.5" fill="#0057a8" letter-spacing="0.6">Know your rights</text><text x="110" y="135" text-anchor="middle" font-family="'DM Mono',monospace" font-size="3.2" fill="#0057a8">Be ICE Ready</text><text x="110" y="143" text-anchor="middle" font-family="'DM Mono',monospace" font-size="3" fill="#0057a8">@icereadyapp</text></svg><span class="merch-flag">Chest Logo</span></div><div class="merch-info"><div class="merch-title-row"><h4>ICE Blockhead Tee</h4><span class="merch-price">$24</span></div><p>Front: Clean shield logo on left chest. Back: Life-size LEGO blockhead with ice cube head, <em>Know your rights. Be ICE Ready @icereadyapp</em> below. Visual statement piece for the merch drop.</p><a href="mailto:support@iceready.app?subject=Waitlist: Blockhead Tee" class="merch-notify">Join the waitlist</a></div></div></div><div class="merch-foot"><span>Full store launching at shop.iceready.app</span><span>Printed on demand in the USA · Profits fund the free app</span></div></div></section>
 <section class="mission-section" id="mission"><div class="mission-inner"><div class="section-label">Our Mission</div><div class="mission-quote">America Has Done This Before. This Time You Can Be Prepared.</div><div class="mission-grid"><div class="mission-text"><p>ICE Ready was built on a simple conviction: fear should never be the reason someone doesn't know their rights. The Constitution doesn't ask where you were born — due process and equal protection belong to everyone. And when those rights can be stripped from one community, no one's rights are safe.</p><p>This app is for anyone the system is failing — the profiled, the detained, the families answering a knock at the door. It is free and it will stay free. No ads. No data selling. No paywall between a family and their rights. Built by iCyberAI LLC.</p></div></div><figure class="mission-map-full"><a href="us_territorial_acquisitions.jpg" target="_blank" rel="noopener"><img src="us_territorial_acquisitions.jpg" alt="Map of U.S. territorial acquisitions, 1783-1917" loading="lazy"></a><figcaption>U.S. Territorial Acquisitions, 1783&ndash;1917 · The borders moved first.</figcaption></figure></div></section>
 <div class="footer-word" aria-hidden="true">ICE READY APP</div><div class="footer-word-sub">Know Your Rights · iceready.app</div><footer><div class="footer-logo">iCyberAI LLC</div><div class="footer-links"><a href="#features">Features</a><a href="#download">Download</a><a href="#merch">Store</a><a href="mailto:support@iceready.app">support@iceready.app</a></div><div class="footer-legal">2026 iCyberAI LLC · iceready.app · USPTO 99803896</div></footer>
 <script>
@@ -278,7 +278,7 @@ footer{border-top-color:var(--border);}
     var probe=new Image();
     probe.onload=function(){shot.src=probe.src;shot.style.display='block';cover.style.display='none';};
     probe.onerror=function(){shot.style.display='none';cover.style.display='flex';};
-    probe.src='appscreens/'+b.getAttribute('data-tab')+'.jpg?v=3';
+    probe.src='appscreens/'+b.getAttribute('data-tab')+'.jpg?v=4';
   });});
   if(reduce||!('IntersectionObserver' in window))return;
   var els=document.querySelectorAll('.section-label,.section-title,.feature,.merch-sub,.merch-card,.merch-foot,.download-copy,.phone-frame,.mission-quote,.mission-text p,.poem-frame,.hero-stat');
